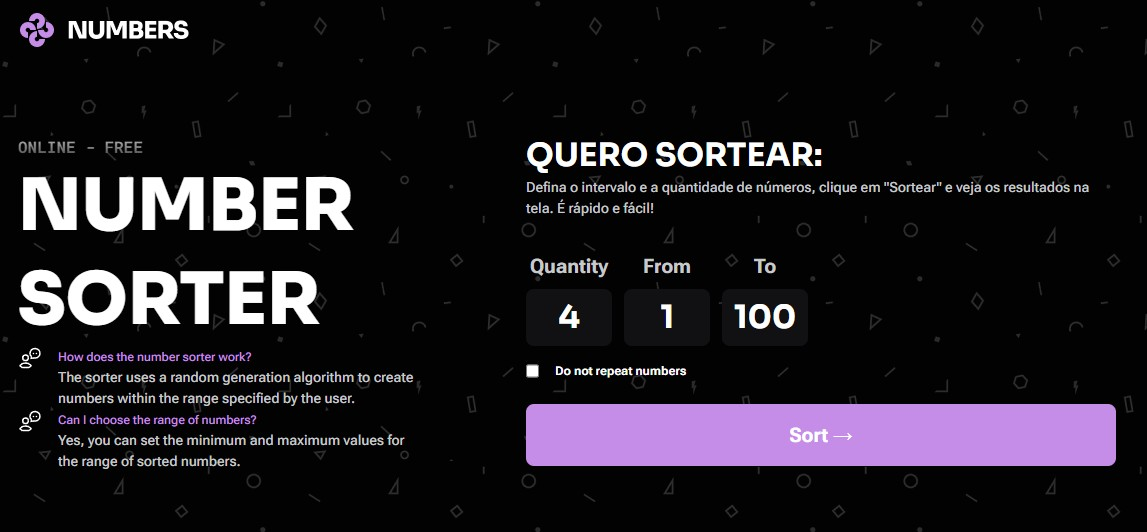
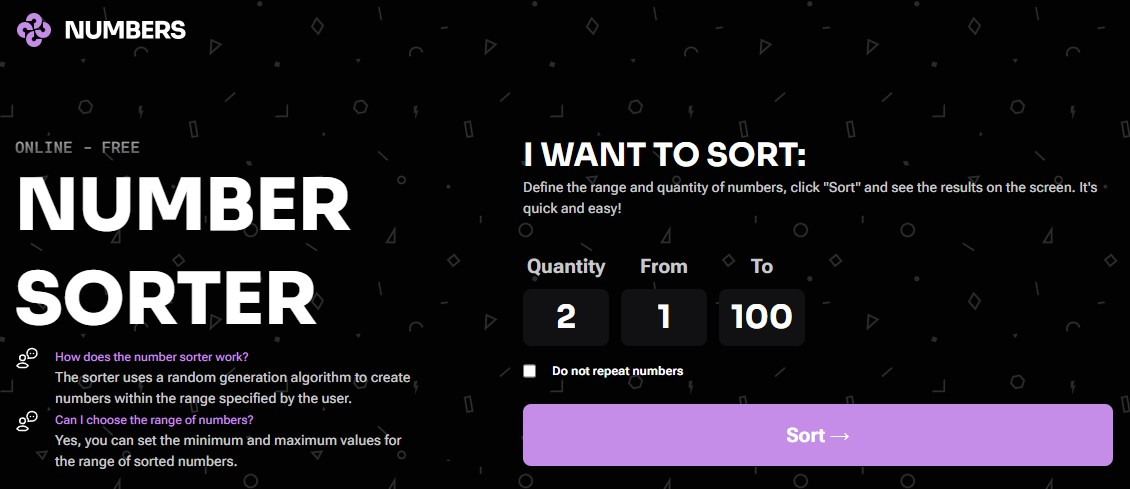
update readme

diff --git a/index.html b/index.html
@@ -5,7 +5,7 @@
 	<head>
 		<meta charset="UTF-8" />
 		<meta name="viewport" content="width=device-width, initial-scale=1.0" />
-		<title>Sorteador de Números</title>
+		<title>Number Sorter</title>
 		<link rel="stylesheet" href="/styles/index.css" />
 		<link rel="preconnect" href="https://fonts.googleapis.com" />
 		<link rel="preconnect" href="https://fonts.gstatic.com" crossorigin />
@@ -15,14 +15,14 @@
 		/>
 	</head>
 	<body>
-		<img id="logo" src="assets/img/logo.png" alt="" />
+		<img id="logo" src="assets/img/logo.png" alt="Logo" />
 		<div class="container">
 			<main>
 				<h2>Online - Free</h2>
 				<h1>Number Sorter</h1>
 
 				<div class="questions">
-					<img src="assets/icons/Frame-2.svg" alt="" />
+					<img src="assets/icons/Frame-2.svg" alt="Icon" />
 					<p>
 						<strong>How does the number sorter work?</strong><br />
 						The sorter uses a random generation algorithm to create numbers within the range specified by the user.
@@ -30,7 +30,7 @@
 				</div>
 
 				<div class="questions">
-					<img src="assets/icons/Frame-2.svg" alt="" />
+					<img src="assets/icons/Frame-2.svg" alt="Icon" />
 					<p>
 						<strong>Can I choose the range of numbers?</strong><br />
 						Yes, you can set the minimum and maximum values for the range of sorted numbers.
@@ -38,10 +38,9 @@
 				</div>
 			</main>
 			<form id="number-form">
-				<h3>Quero sortear:</h3>
+				<h3>I want to sort:</h3>
 				<p>
-					Defina o intervalo e a quantidade de números, clique em "Sortear" e veja os resultados na tela. É rápido e
-					fácil!
+					Define the range and quantity of numbers, click "Sort" and see the results on the screen. It's quick and easy!
 				</p>
 				<fieldset>
 					<div class="input-numbers">
